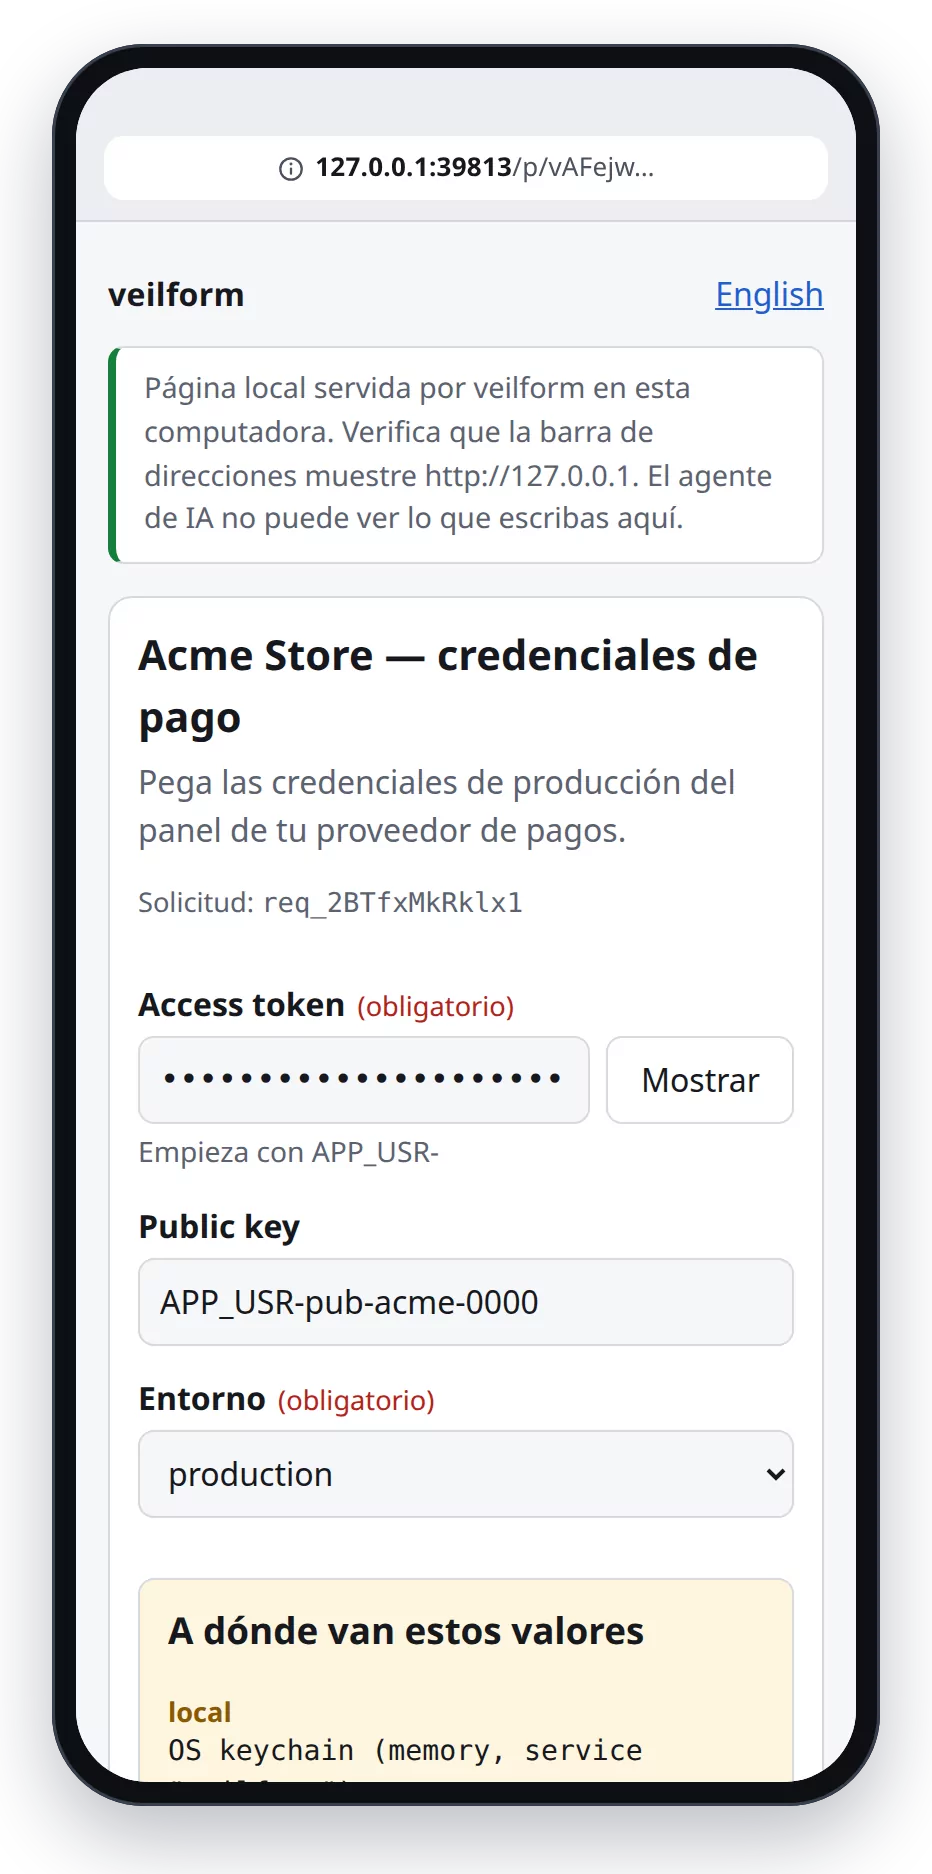
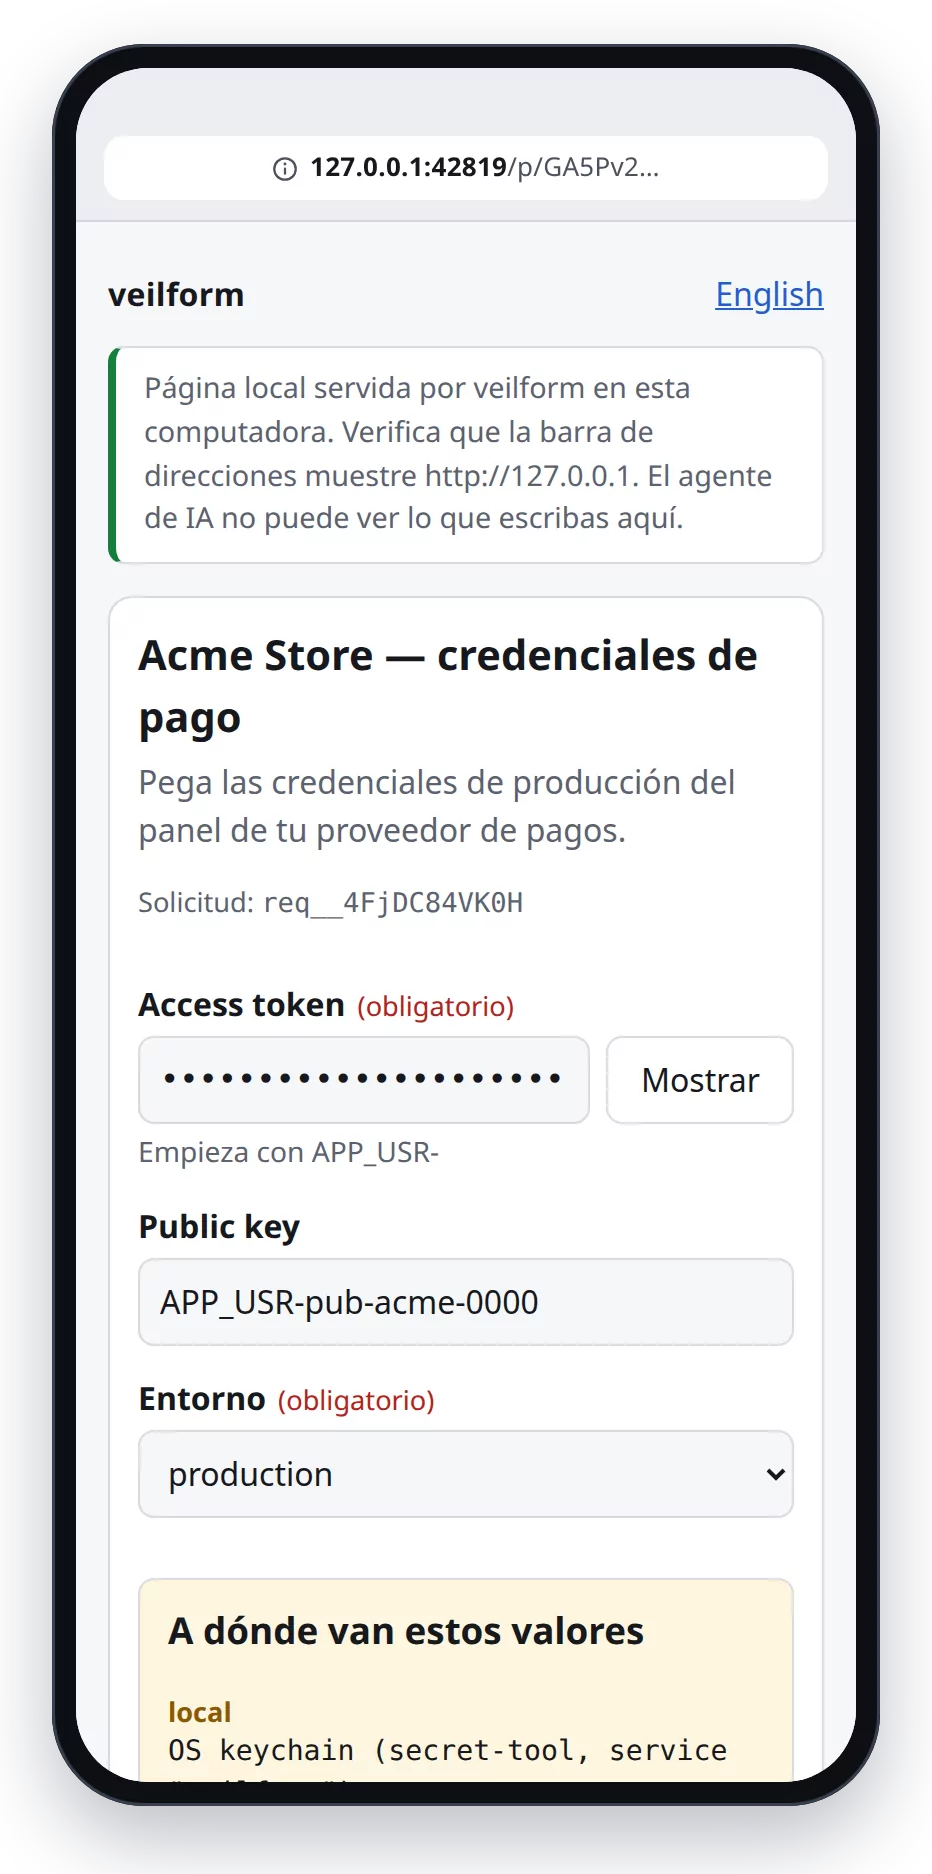
docs(readme): rotular el llavero en memoria como secret-tool en las capturas
Así el recuadro de destino se lee como en un Linux real; los valores siguen en memoria. Capturas y flujo regenerados.

diff --git a/scripts/readme-assets/capture.spec.ts b/scripts/readme-assets/capture.spec.ts
@@ -12,7 +12,7 @@ import { mkdirSync, mkdtempSync, readdirSync, readFileSync, rmSync, statSync, wr
 import { tmpdir } from 'node:os';
 import path from 'node:path';
 import { expect, test, type Browser, type Page } from '@playwright/test';
-import { makeApp, type TestApp } from '../../test/helpers.js';
+import { makeApp, memKeychain, type TestApp } from '../../test/helpers.js';
 
 const ROOT = path.resolve(import.meta.dirname, '../..');
 const OUT = path.join(ROOT, 'docs/assets');
@@ -88,6 +88,9 @@ function app(lang: Lang, extra: Record<string, unknown> = {}): TestApp {
       },
     },
     ...extra,
+  }, {
+    // In-memory keychain, labelled like the real Linux backend so the destination box reads as it would.
+    keychainBackend: Object.assign(memKeychain(), { name: 'secret-tool' }),
   });
   return t;
 }
